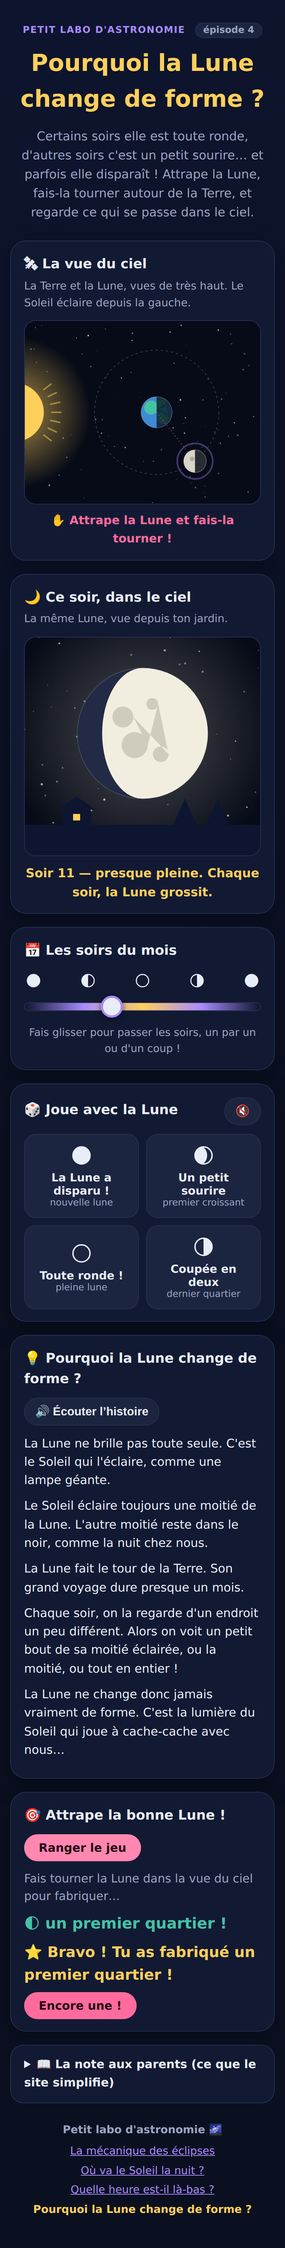
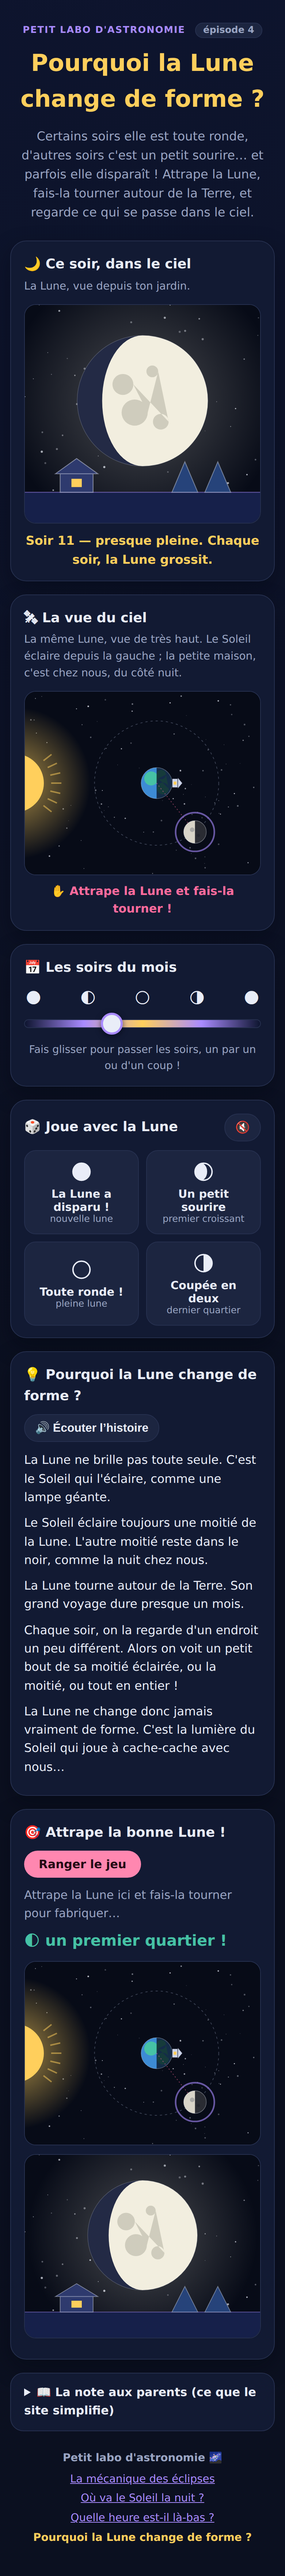
feat: vue jardin en premier, maisons-repères et mini-vues sous le jeu
- « La Lune fait le tour de la Terre » → « La Lune tourne autour de la Terre »
- le hublot du jardin ouvre la page, la vue du ciel vient en second
- jardin plus lisible : maison et sapins détourés, plus clairs que le ciel
- petite maison sur le côté nuit de la Terre (c'est de là qu'on regarde)
- le jeu reprend les deux vues en petit, synchronisées, pour jouer sans
  remonter en haut de la page

Claude-Session: https://claude.ai/code/session_01LW4HCeJJHapQbn1kSHxLQ4

diff --git a/index.html b/index.html
@@ -24,24 +24,24 @@
 
     <!-- Le cœur interactif : les deux vues, toujours synchronisées. -->
     <section class="vues">
-      <div class="carte carte-orbite">
-        <h2>🛰 La vue du ciel</h2>
-        <p class="sous-titre">La Terre et la Lune, vues de très haut. Le Soleil éclaire depuis la gauche.</p>
-        <div class="cadre-canvas">
-          <canvas id="canvas-orbite"
-            aria-label="La Terre au centre, la Lune sur son orbite, le Soleil fixe à gauche. La moitié de la Lune tournée vers le Soleil est toujours éclairée. Glisse la Lune avec le doigt ou la souris pour la faire tourner autour de la Terre."></canvas>
-        </div>
-        <p class="astuce" id="astuce-geste">✋ Attrape la Lune et fais-la tourner !</p>
-      </div>
-
       <div class="carte carte-hublot">
         <h2>🌙 Ce soir, dans le ciel</h2>
-        <p class="sous-titre">La même Lune, vue depuis ton jardin.</p>
+        <p class="sous-titre">La Lune, vue depuis ton jardin.</p>
         <div class="cadre-canvas">
           <canvas id="canvas-hublot"
             aria-label="La Lune telle qu'on la voit ce soir depuis le jardin : sa forme change selon sa position sur l'orbite. Utilise le curseur des soirs du mois pour changer de soir."></canvas>
         </div>
         <p class="phrase-soir" id="phrase-soir" aria-live="polite"></p>
+      </div>
+
+      <div class="carte carte-orbite">
+        <h2>🛰 La vue du ciel</h2>
+        <p class="sous-titre">La même Lune, vue de très haut. Le Soleil éclaire depuis la gauche ; la petite maison, c'est chez nous, du côté nuit.</p>
+        <div class="cadre-canvas">
+          <canvas id="canvas-orbite"
+            aria-label="La Terre au centre, la Lune sur son orbite, le Soleil fixe à gauche. La moitié de la Lune tournée vers le Soleil est toujours éclairée. La petite maison sur la Terre montre où nous sommes, du côté nuit. Glisse la Lune avec le doigt ou la souris pour la faire tourner autour de la Terre."></canvas>
+        </div>
+        <p class="astuce" id="astuce-geste">✋ Attrape la Lune et fais-la tourner !</p>
       </div>
     </section>
 
@@ -79,7 +79,7 @@
       <div id="texte-explication">
         <p>La Lune ne brille pas toute seule. C'est le Soleil qui l'éclaire, comme une lampe géante.</p>
         <p>Le Soleil éclaire toujours une moitié de la Lune. L'autre moitié reste dans le noir, comme la nuit chez nous.</p>
-        <p>La Lune fait le tour de la Terre. Son grand voyage dure presque un mois.</p>
+        <p>La Lune tourne autour de la Terre. Son grand voyage dure presque un mois.</p>
         <p>Chaque soir, on la regarde d'un endroit un peu différent. Alors on voit un petit bout de sa moitié éclairée, ou la moitié, ou tout en entier !</p>
         <p>La Lune ne change donc jamais vraiment de forme. C'est la lumière du Soleil qui joue à cache-cache avec nous…</p>
       </div>
@@ -96,8 +96,18 @@
         <button id="bouton-jouer" class="bouton-jeu" type="button">Jouer</button>
       </div>
       <div id="zone-jeu" hidden>
-        <p class="consigne-jeu">Fais tourner la Lune dans la vue du ciel pour fabriquer…</p>
+        <p class="consigne-jeu">Attrape la Lune ici et fais-la tourner pour fabriquer…</p>
         <p class="defi" id="defi-jeu" aria-live="polite"></p>
+        <div class="vues-jeu">
+          <div class="cadre-canvas">
+            <canvas id="canvas-orbite-jeu"
+              aria-label="La même vue du ciel que plus haut, synchronisée : glisse la Lune ici pour la faire tourner autour de la Terre."></canvas>
+          </div>
+          <div class="cadre-canvas">
+            <canvas id="canvas-hublot-jeu"
+              aria-label="Le même ciel du jardin que plus haut, synchronisé : la forme de la Lune que tu fabriques."></canvas>
+          </div>
+        </div>
         <p class="bravo" id="bravo-jeu" aria-live="polite" hidden></p>
         <button id="bouton-encore" class="bouton-jeu" type="button" hidden>Encore une !</button>
       </div>

diff --git a/js/main.js b/js/main.js
@@ -52,8 +52,14 @@ var defiJeu = document.getElementById('defi-jeu');
 var bravoJeu = document.getElementById('bravo-jeu');
 var boutonEncore = document.getElementById('bouton-encore');
 
+var canvasOrbiteJeu = document.getElementById('canvas-orbite-jeu');
+var canvasHublotJeu = document.getElementById('canvas-hublot-jeu');
+
 var vueOrbite = creerVueOrbite(canvasOrbite);
 var vueHublot = creerVueHublot(canvasHublot);
+/* Les mêmes vues, en petit, sous le jeu — synchronisées sur le même jour. */
+var vueOrbiteJeu = creerVueOrbite(canvasOrbiteJeu);
+var vueHublotJeu = creerVueHublot(canvasHublotJeu);
 
 /* ------------------------------------------------------------------ */
 /* Changer de jour                                                     */
@@ -127,6 +133,12 @@ function boucle(maintenant) {
     var halo = etat.glisse ? 1 : (mouvementReduit ? 0.4 : 0.4 + 0.35 * Math.sin(maintenant / 550));
     vueOrbite.rendre(etat.jour, halo);
     vueHublot.rendre(etat.jour);
+    if (!zoneJeu.hidden) {
+      ajusterCanvas(canvasOrbiteJeu);
+      ajusterCanvas(canvasHublotJeu);
+      vueOrbiteJeu.rendre(etat.jour, halo);
+      vueHublotJeu.rendre(etat.jour);
+    }
     surveillerDefi();
   } finally {
     window.requestAnimationFrame(boucle);
@@ -145,30 +157,35 @@ function coordonneesCanvas(canvas, e) {
   };
 }
 
-canvasOrbite.addEventListener('pointerdown', function (e) {
-  var c = coordonneesCanvas(canvasOrbite, e);
-  if (!vueOrbite.attrapeLune(c.x, c.y, etat.jour)) return;
-  etat.glisse = true;
-  reprendreLaMain();
-  canvasOrbite.classList.add('attrape');
-  if (canvasOrbite.setPointerCapture) canvasOrbite.setPointerCapture(e.pointerId);
-  e.preventDefault();
-});
+function brancherGesteLune(canvas, vue) {
+  canvas.addEventListener('pointerdown', function (e) {
+    var c = coordonneesCanvas(canvas, e);
+    if (!vue.attrapeLune(c.x, c.y, etat.jour)) return;
+    etat.glisse = true;
+    reprendreLaMain();
+    canvas.classList.add('attrape');
+    if (canvas.setPointerCapture) canvas.setPointerCapture(e.pointerId);
+    e.preventDefault();
+  });
 
-canvasOrbite.addEventListener('pointermove', function (e) {
-  if (!etat.glisse) return;
-  var c = coordonneesCanvas(canvasOrbite, e);
-  fixerJour(vueOrbite.jourDepuisPointeur(c.x, c.y));
-  e.preventDefault();
-});
+  canvas.addEventListener('pointermove', function (e) {
+    if (!etat.glisse) return;
+    var c = coordonneesCanvas(canvas, e);
+    fixerJour(vue.jourDepuisPointeur(c.x, c.y));
+    e.preventDefault();
+  });
 
-function lacherLaLune() {
-  etat.glisse = false;
-  canvasOrbite.classList.remove('attrape');
+  function lacherLaLune() {
+    etat.glisse = false;
+    canvas.classList.remove('attrape');
+  }
+
+  canvas.addEventListener('pointerup', lacherLaLune);
+  canvas.addEventListener('pointercancel', lacherLaLune);
 }
 
-canvasOrbite.addEventListener('pointerup', lacherLaLune);
-canvasOrbite.addEventListener('pointercancel', lacherLaLune);
+brancherGesteLune(canvasOrbite, vueOrbite);
+brancherGesteLune(canvasOrbiteJeu, vueOrbiteJeu);
 
 /* ------------------------------------------------------------------ */
 /* Le curseur maître                                                    */

diff --git a/js/vue-hublot.js b/js/vue-hublot.js
@@ -109,32 +109,44 @@ export function creerVueHublot(canvas) {
       }
       dessinerDisqueLune(ctx, cx, cy, R, forme);
 
-      /* Les toits endormis, en bas du hublot. */
+      /* Le jardin endormi, en bas du hublot — silhouettes plus claires que le
+       * ciel et détourées, pour que la maison et les sapins se lisent bien. */
       var sol = h * 0.86;
-      ctx.fillStyle = '#0e1530';
+      ctx.fillStyle = '#16204a';
       ctx.fillRect(0, sol, w, h - sol);
+      ctx.strokeStyle = 'rgba(169, 139, 255, 0.5)';
+      ctx.lineWidth = Math.max(1.5, h * 0.004);
       ctx.beginPath();
+      ctx.moveTo(0, sol);
+      ctx.lineTo(w, sol);
+      ctx.stroke();
       /* Une petite maison… */
       var mx = w * 0.22;
-      ctx.rect(mx - w * 0.06, sol - h * 0.07, w * 0.12, h * 0.07);
-      ctx.moveTo(mx - w * 0.08, sol - h * 0.07);
-      ctx.lineTo(mx, sol - h * 0.13);
-      ctx.lineTo(mx + w * 0.08, sol - h * 0.07);
+      ctx.beginPath();
+      ctx.rect(mx - w * 0.07, sol - h * 0.085, w * 0.14, h * 0.085);
+      ctx.moveTo(mx - w * 0.09, sol - h * 0.085);
+      ctx.lineTo(mx, sol - h * 0.155);
+      ctx.lineTo(mx + w * 0.09, sol - h * 0.085);
       ctx.closePath();
+      ctx.fillStyle = '#2e3a6e';
       ctx.fill();
+      ctx.strokeStyle = 'rgba(233, 237, 248, 0.45)';
+      ctx.stroke();
       /* …sa fenêtre allumée… */
       ctx.fillStyle = '#ffcf5c';
-      ctx.fillRect(mx - w * 0.015, sol - h * 0.05, w * 0.03, h * 0.03);
+      ctx.fillRect(mx - w * 0.022, sol - h * 0.062, w * 0.044, h * 0.038);
       /* …et deux sapins. */
-      ctx.fillStyle = '#0e1530';
       [0.68, 0.82].forEach(function (fx) {
         var sx = w * fx;
         ctx.beginPath();
-        ctx.moveTo(sx - w * 0.05, sol);
-        ctx.lineTo(sx, sol - h * 0.12);
-        ctx.lineTo(sx + w * 0.05, sol);
+        ctx.moveTo(sx - w * 0.055, sol);
+        ctx.lineTo(sx, sol - h * 0.14);
+        ctx.lineTo(sx + w * 0.055, sol);
         ctx.closePath();
+        ctx.fillStyle = '#26437a';
         ctx.fill();
+        ctx.strokeStyle = 'rgba(233, 237, 248, 0.4)';
+        ctx.stroke();
       });
     }
   };

diff --git a/js/vue-orbite.js b/js/vue-orbite.js
@@ -105,6 +105,31 @@ export function creerVueOrbite(canvas) {
     ctx.strokeStyle = 'rgba(233, 237, 248, 0.35)';
     ctx.lineWidth = 1.5;
     ctx.stroke();
+    /* Chez nous : une petite maison plantée sur le côté nuit de la Terre
+     * (à l'opposé du Soleil) — c'est de là qu'on regarde la Lune. */
+    dessinerMaison(ctx, g.cx + g.rTerre, g.cy, Math.PI / 2, g.rTerre * 0.58);
+  }
+
+  /* Une petite maison éclairée, posée en (x, y), « debout » selon rotation
+   * (0 = vers le haut du canvas). */
+  function dessinerMaison(ctx, x, y, rotation, s) {
+    ctx.save();
+    ctx.translate(x, y);
+    ctx.rotate(rotation);
+    ctx.beginPath();
+    ctx.rect(-s * 0.5, -s * 0.62, s, s * 0.62);
+    ctx.moveTo(-s * 0.64, -s * 0.62);
+    ctx.lineTo(0, -s * 1.15);
+    ctx.lineTo(s * 0.64, -s * 0.62);
+    ctx.closePath();
+    ctx.fillStyle = '#cdd5ea';
+    ctx.fill();
+    ctx.strokeStyle = 'rgba(7, 11, 23, 0.8)';
+    ctx.lineWidth = Math.max(1, s * 0.06);
+    ctx.stroke();
+    ctx.fillStyle = '#ffcf5c';
+    ctx.fillRect(-s * 0.17, -s * 0.48, s * 0.34, s * 0.32);
+    ctx.restore();
   }
 
   function dessinerLune(ctx, g, jour, halo) {

diff --git a/css/style.css b/css/style.css
@@ -91,7 +91,7 @@ main, header.entete, footer.pied-serie {
 @media (min-width: 880px) {
   .vues {
     display: grid;
-    grid-template-columns: 1.25fr 1fr;
+    grid-template-columns: 1fr 1.25fr;
     gap: 18px;
     align-items: stretch;
   }
@@ -310,6 +310,31 @@ input[type="range"]:focus-visible { outline: 3px solid var(--rose); outline-offs
 .bouton-jeu:hover { background: #ff87b0; }
 
 .consigne-jeu { color: var(--muted); }
+
+.vues-jeu {
+  display: block;
+  margin: 12px 0;
+}
+
+.vues-jeu .cadre-canvas { margin-bottom: 12px; }
+
+.vues-jeu .cadre-canvas { height: 0; padding-bottom: 78%; }
+
+@supports (aspect-ratio: 1 / 1) {
+  .vues-jeu .cadre-canvas { height: auto; padding-bottom: 0; aspect-ratio: 9 / 7; }
+}
+
+@media (min-width: 720px) {
+  .vues-jeu {
+    display: grid;
+    grid-template-columns: 1.25fr 1fr;
+    gap: 12px;
+  }
+  .vues-jeu .cadre-canvas { margin-bottom: 0; }
+}
+
+#canvas-orbite-jeu { cursor: grab; }
+#canvas-orbite-jeu.attrape { cursor: grabbing; }
 
 .defi {
   font-size: 1.3rem;

diff --git a/README.md b/README.md
@@ -15,12 +15,14 @@ L'idée centrale, celle que l'enfant doit retenir :
 
 ## Fonctionnalités
 
+- **Le hublot « Ce soir, dans le ciel »**, en ouverture : la Lune vue du jardin
+  (petite maison à la fenêtre allumée, sapins), avec sa forme du soir et la
+  petite phrase du soir en dessous.
 - **La vue du ciel** : la Terre et la Lune vues de très haut, le Soleil fixe à
-  gauche. Le geste-signature de l'épisode : **attraper la Lune au doigt et la
-  faire tourner** sur son orbite.
-- **Le hublot « Ce soir, dans le ciel »** : la même Lune, vue du jardin, avec sa
-  forme du soir — toujours synchronisé avec la vue du ciel, avec la petite
-  phrase du soir en dessous.
+  gauche, et une petite maison plantée sur le côté nuit de la Terre — c'est de
+  là qu'on regarde. Le geste-signature de l'épisode : **attraper la Lune au
+  doigt et la faire tourner** sur son orbite. Les deux vues restent toujours
+  synchronisées.
 - **Le grand curseur des soirs du mois** (0 → 29,5) pour faire défiler le cycle.
 - **4 boutons-scénarios « 🎲 Joue avec la Lune »** : nouvelle lune, premier
   croissant, pleine lune, dernier quartier — l'animation rejoint le moment
@@ -29,7 +31,9 @@ L'idée centrale, celle que l'enfant doit retenir :
 - **La boîte d'explication** à lire ou à **écouter** (synthèse vocale hors
   ligne, bouton « 🔊 Écouter l'histoire », menu de voix 🗣).
 - **Le jeu « 🎯 Attrape la bonne Lune ! »** : le site demande une phase,
-  l'enfant la fabrique en manœuvrant la Lune.
+  l'enfant la fabrique en manœuvrant la Lune — directement dans les deux
+  mini-vues reprises sous le jeu (synchronisées avec celles du haut), sans
+  remonter en haut de la page.
 - **La note aux parents**, repliable, qui documente honnêtement chaque
   simplification.
 
